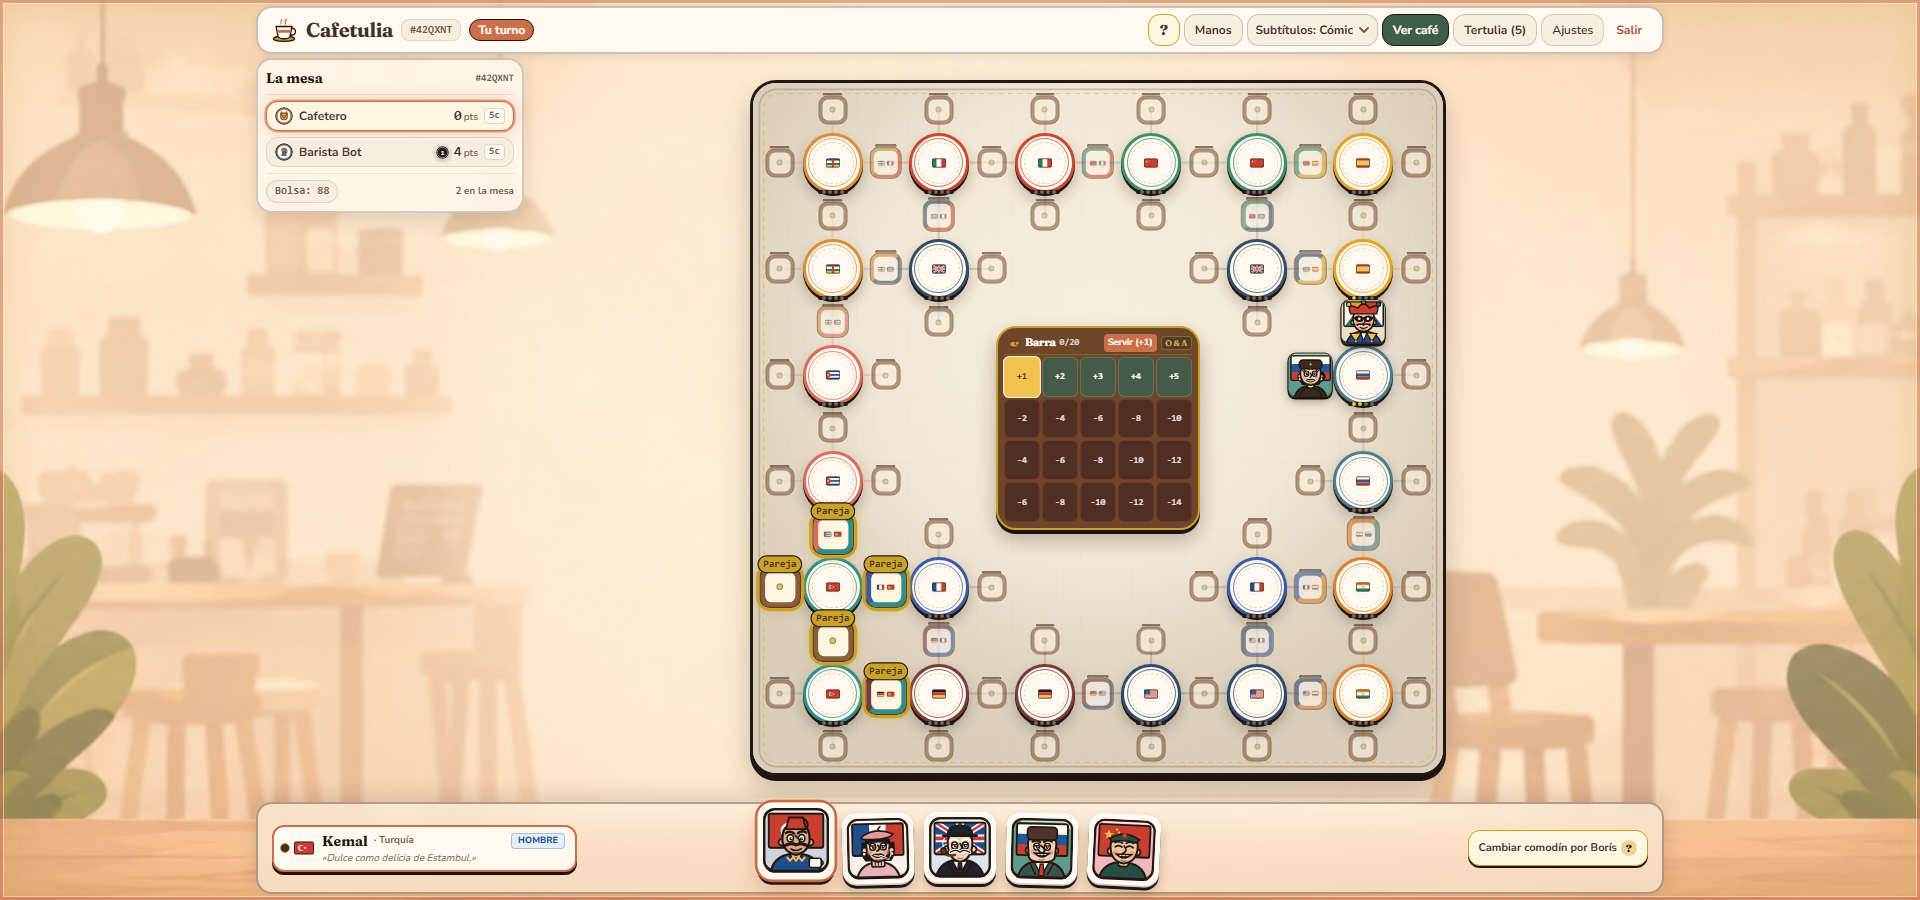
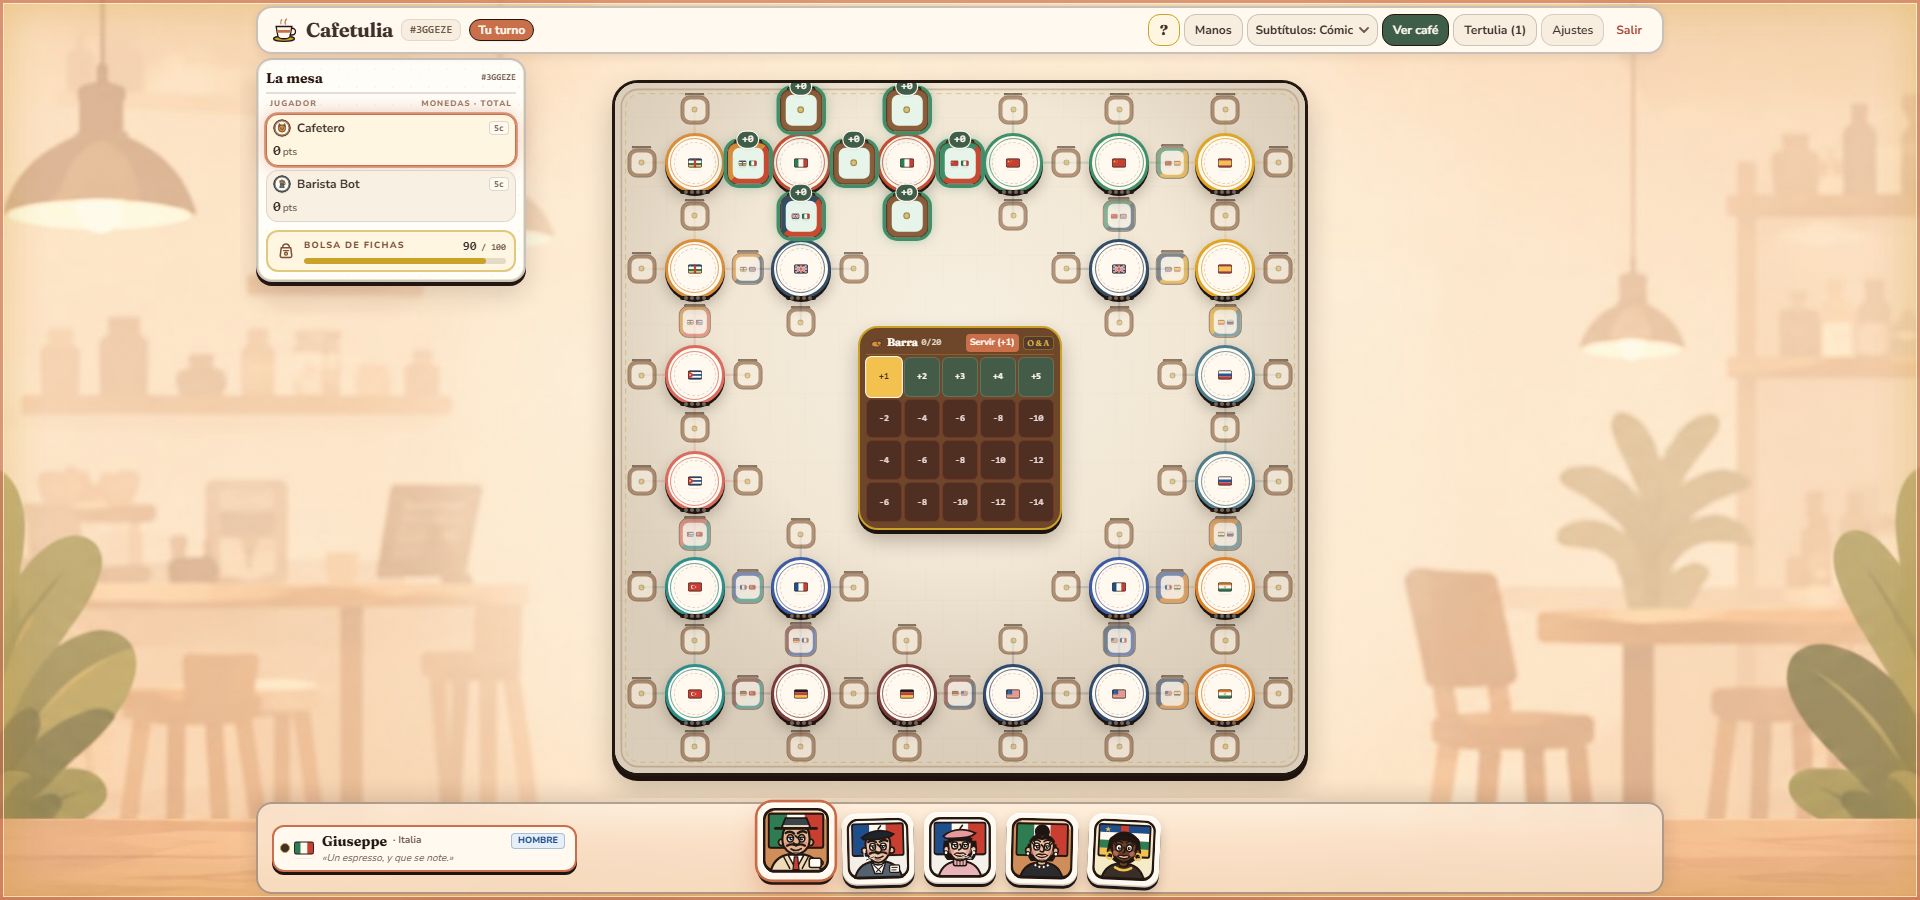
feat(game): tabla de puntuaciones con monedas y bolsa, tablero centrado
- Tabla 2x2 en movil con los 4 jugadores a la vez, sin slider; lista vertical flotante en PC.\n- Desglose visible de monedas 10/5/1 y total por jugador.\n- Bolsa de fichas destacada con contador X/100 y barra de progreso.\n- El tablero recupera el centro exacto del ancho completo en PC.\n- E2E: centro del tablero en 1920 y tabla movil sobre el tablero.

diff --git a/apps/web/src/components/Screens.tsx b/apps/web/src/components/Screens.tsx
@@ -50,6 +50,27 @@ export type ArcadeCalloutEvent = {
 const JOKER_SWAP_EXPLANATION =
   'Entregas una ficha natural que podría ocupar esa silla y recuperas el comodín. No puntúas y no robas. Úsalo solo si te conviene.';
 
+function BagIcon({ className }: { className?: string }): React.ReactElement {
+  return (
+    <svg viewBox="0 0 24 24" fill="none" aria-hidden="true" className={className}>
+      <path
+        d="M8 7.5c0-2.2 1.8-4 4-4s4 1.8 4 4"
+        stroke="currentColor"
+        strokeWidth="1.8"
+        strokeLinecap="round"
+      />
+      <path
+        d="M6.3 8h11.4l1.2 9.6a2 2 0 0 1-2 2.2H7.1a2 2 0 0 1-2-2.2L6.3 8Z"
+        stroke="currentColor"
+        strokeWidth="1.8"
+        strokeLinejoin="round"
+      />
+      <path d="M9 11.5h6" stroke="currentColor" strokeWidth="1.6" strokeLinecap="round" />
+      <circle cx="12" cy="15.2" r="1.7" stroke="currentColor" strokeWidth="1.6" />
+    </svg>
+  );
+}
+
 /**
  * Keyboard & ARIA accessible Avatar Dropdown / Bottom Sheet (P0.2 & P0.4)
  * Uses global activeOverlay === 'avatar' and portal AnchoredPopover.
@@ -3153,18 +3174,22 @@ export function PlayingScreen(): React.ReactElement {
         </div>
       </AnchoredPopover>
 
-      {/* CONTENT: score top on mobile / left column on desktop, board on the right */}
-      <div className="flex-1 min-h-0 w-full flex flex-col items-center justify-center gap-1.5 sm:gap-2 pt-5 lg:pt-0 lg:flex-row lg:items-start">
+      {/* CONTENT: ledger on top (mobile) / floating left (desktop), board centered */}
+      <div className="relative flex-1 min-h-0 w-full flex flex-col items-center justify-center gap-1.5 sm:gap-2 pt-3 lg:pt-0 lg:flex-row lg:items-start">
         <aside
           data-testid="compact-scoreboard"
-          className="shrink-0 w-full lg:w-[248px] xl:w-[268px] rounded-2xl border-2 border-[#231712]/20 bg-[#FFF9F0]/82 backdrop-blur-md p-1.5 sm:p-2 shadow-[0_6px_20px_rgba(35,23,18,0.12)]"
+          className="cafe-paper-sheet shrink-0 w-full rounded-2xl border-2 border-[#231712]/25 p-2 lg:w-[248px] xl:absolute xl:left-0 xl:top-0 xl:z-20 xl:w-[270px]"
         >
-          <div className="hidden lg:flex items-center justify-between gap-2 pb-1.5 mb-1.5 border-b border-[#3E2F2A]/10">
+          <div className="flex items-center justify-between gap-2 pb-1 mb-1 border-b-2 border-[#3E2F2A]/15">
             <span className="font-serif font-bold text-sm text-[#2B1710]">La mesa</span>
-            <span className="text-[10px] font-mono font-bold text-[#6F5A4E]">#{snapshot.code}</span>
+            <span className="text-[9px] font-mono font-bold text-[#6F5A4E]">#{snapshot.code}</span>
+          </div>
+          <div className="hidden lg:grid grid-cols-[1fr_auto] gap-2 px-1 pb-1 text-[8px] font-extrabold uppercase tracking-[0.14em] text-[#7B5236]/80">
+            <span>Jugador</span>
+            <span>Monedas · total</span>
           </div>
 
-          <div className="flex lg:flex-col items-stretch gap-1 sm:gap-1.5 overflow-x-auto lg:overflow-visible pb-0.5 lg:pb-0">
+          <div className="grid grid-cols-2 gap-1.5 lg:flex lg:flex-col lg:gap-1">
             {gameState.players.map((p) => {
               const pHandCount = (gameState.hands[p.id] ?? []).length;
               const isTurn = gameState.turn === p.id;
@@ -3173,52 +3198,62 @@ export function PlayingScreen(): React.ReactElement {
                 <div
                   key={p.id}
                   data-testid={`scoreboard-player-${p.id}`}
-                  className={`cafe-score-card flex items-center gap-1 sm:gap-1.5 px-1.5 sm:px-2 py-1 rounded-xl border text-xs transition-colors duration-200 whitespace-nowrap shrink-0 lg:w-full ${
+                  className={`cafe-score-card flex flex-col gap-1 rounded-xl border px-1.5 py-1 text-xs transition-colors duration-200 ${
                     isTurn
-                      ? `${reducedMotion ? 'cafe-score-active-static' : 'cafe-score-active'} bg-[#FEF6E0] border-[#C96F4A] font-bold`
-                      : 'bg-[#F7EEDF] border-[#231712]/12'
+                      ? `${reducedMotion ? 'cafe-score-active-static' : 'cafe-score-active'} bg-[#FEF6E0] border-[#C96F4A]`
+                      : 'bg-[#F7EEDF]/85 border-[#231712]/12'
                   }`}
                 >
-                  <PlayerAvatar avatarId={pAvatar} size={18} />
-                  <span className="font-bold text-[#3E2F2A] truncate max-w-[58px] sm:max-w-[96px] lg:max-w-none lg:flex-1">
-                    {p.nickname}
-                  </span>
-                  <CoinTray
-                    score={p.score}
-                    playerId={p.id}
-                    compact
-                    summaryOnly
-                    reducedMotion={reducedMotion}
-                  />
-                  <span
-                    className="text-[10px] font-mono font-semibold text-[#6F5A4E] bg-[#FFF9F0] px-1 py-0.2 rounded border border-[#231712]/15 tabular-nums"
-                    title={`${pHandCount} fichas en mano`}
-                  >
-                    {pHandCount}c
-                  </span>
+                  <div className="flex items-center gap-1.5 min-w-0">
+                    <PlayerAvatar avatarId={pAvatar} size={18} />
+                    <span className="font-bold text-[#3E2F2A] truncate flex-1">{p.nickname}</span>
+                    <span
+                      className="text-[9px] font-mono font-semibold text-[#6F5A4E] bg-[#FFF9F0] px-1 py-0.2 rounded border border-[#231712]/15 tabular-nums"
+                      title={`${pHandCount} fichas en mano`}
+                    >
+                      {pHandCount}c
+                    </span>
+                  </div>
+                  <div className="flex flex-wrap items-center gap-1 min-w-0">
+                    <CoinTray
+                      score={p.score}
+                      playerId={p.id}
+                      compact
+                      reducedMotion={reducedMotion}
+                    />
+                  </div>
                 </div>
               );
             })}
-            <span
-              data-testid="bag-counter-pill-mobile"
-              className="lg:hidden self-center text-[10px] font-mono font-bold text-[#6F5A4E] bg-[#F7EEDF] px-1.5 py-0.5 rounded-lg border border-[#231712]/12 tabular-nums whitespace-nowrap shrink-0"
-              title="Fichas restantes en la bolsa"
-            >
-              Bolsa: {gameState.bag.length}
-            </span>
           </div>
 
-          <div className="hidden lg:flex items-center justify-between gap-2 pt-1.5 mt-1.5 border-t border-[#3E2F2A]/10">
-            <span
-              data-testid="bag-counter-pill"
-              className="text-[11px] font-mono font-bold text-[#6F5A4E] bg-[#F7EEDF] px-2 py-0.5 rounded-xl border border-[#231712]/12 tabular-nums whitespace-nowrap"
-              title="Fichas restantes en la bolsa"
-            >
-              Bolsa: {gameState.bag.length}
-            </span>
-            <span className="text-[10px] font-bold text-[#6F5A4E]">
-              {gameState.players.length} en la mesa
-            </span>
+          <div
+            data-testid="bag-counter-pill"
+            className="mt-2 rounded-xl border-2 border-[#C9A227]/55 bg-[#FEF6E0] px-2 py-1.5"
+            title={`Fichas restantes en la bolsa: ${gameState.bag.length} de 100`}
+          >
+            <div className="flex items-center gap-2">
+              <BagIcon className="h-5 w-5 shrink-0 text-[#7B5236]" />
+              <div className="min-w-0 flex-1">
+                <div className="flex items-center justify-between gap-2">
+                  <span className="text-[9px] font-extrabold uppercase tracking-[0.14em] text-[#7B5236]">
+                    Bolsa de fichas
+                  </span>
+                  <span className="font-mono text-xs font-extrabold text-[#3E2F2A] tabular-nums">
+                    {gameState.bag.length}
+                    <span className="text-[9px] font-bold text-[#6F5A4E]"> / 100</span>
+                  </span>
+                </div>
+                <div className="mt-1 h-1.5 overflow-hidden rounded-full bg-[#231712]/12">
+                  <div
+                    className="h-full rounded-full bg-[#C9A227] transition-[width] duration-500"
+                    style={{
+                      width: `${Math.min(100, Math.max(0, (gameState.bag.length / 100) * 100))}%`,
+                    }}
+                  />
+                </div>
+              </div>
+            </div>
           </div>
         </aside>
 

diff --git a/apps/web/src/components/IllustratedBoard.tsx b/apps/web/src/components/IllustratedBoard.tsx
@@ -138,7 +138,7 @@ export function IllustratedBoard({
       data-testid="papercraft-board"
     >
       {/* Mobile Zoom / Pan Quick Toggle (outside the board so it never covers a chair) */}
-      <div className="sm:hidden w-[min(96vw,calc(100dvh-252px))] flex justify-end pb-1 px-0.5">
+      <div className="sm:hidden w-[min(96vw,calc(100dvh-410px))] flex justify-end pb-1 px-0.5">
         <div className="flex items-center gap-1 bg-[#FFF9F0]/92 backdrop-blur-xs px-1.5 py-0.5 rounded-xl border border-[#231712]/30 shadow-xs">
           <button
             type="button"
@@ -204,7 +204,7 @@ export function IllustratedBoard({
           const y = Math.round(((e.clientY - rect.top) / rect.height) * 100);
           setPointerPct({ x: Math.max(10, Math.min(90, x)), y: Math.max(10, Math.min(90, y)) });
         }}
-        className={`relative aspect-square w-[min(96vw,calc(100dvh-252px))] h-[min(96vw,calc(100dvh-252px))] sm:w-[min(93vw,calc(100dvh-204px))] sm:h-[min(93vw,calc(100dvh-204px))] rounded-[20px] sm:rounded-[26px] border-3 overflow-hidden shrink-0 transition-colors ${
+        className={`relative aspect-square w-[min(96vw,calc(100dvh-410px))] h-[min(96vw,calc(100dvh-410px))] sm:w-[min(93vw,calc(100dvh-204px))] sm:h-[min(93vw,calc(100dvh-204px))] rounded-[20px] sm:rounded-[26px] border-3 overflow-hidden shrink-0 transition-colors ${
           nightMode
             ? 'bg-[#282D3A] border-[#C9A227]/65 text-[#FFF9F0] shadow-[0_6px_0_#141720,0_16px_32px_rgba(0,0,0,0.45)]'
             : 'bg-[#EFE3CE] border-[#231712] text-[#3E2F2A] shadow-[0_5px_0_#1E130E,0_14px_28px_rgba(35,23,18,0.22),inset_0_2px_0_rgba(255,253,248,0.85)]'

diff --git a/e2e/tests/smoke.spec.ts b/e2e/tests/smoke.spec.ts
@@ -287,6 +287,14 @@ test.describe('Cafetulia E2E v11 (menú de reservas 3D, tres mundos, lobby prepa
       () => document.documentElement.scrollHeight <= window.innerHeight + 1,
     );
     expect(widePlayCheck).toBe(true);
+    const boardCenterCheck = await page.evaluate(() => {
+      const board = document.querySelector('[aria-label^="Tablero ilustrado"]')?.getBoundingClientRect();
+      return {
+        boardCenter: board ? board.left + board.width / 2 : 0,
+        viewportCenter: window.innerWidth / 2,
+      };
+    });
+    expect(Math.abs(boardCenterCheck.boardCenter - boardCenterCheck.viewportCenter)).toBeLessThanOrEqual(2);
     await page.screenshot({ path: path.join(REF_DIR, 'ui-v11-partida-1920.png') });
 
     // 6. Verificar Partida en 390x844 sin scroll ni solape entre tablero y dock y captura ui-v11-partida-movil.png

diff --git a/apps/web/src/components/CoinTray.tsx b/apps/web/src/components/CoinTray.tsx
@@ -166,7 +166,7 @@ export function CoinTray({
     <div
       data-player-tray={playerId}
       data-testid={`coin-tray-${playerId}`}
-      className="inline-flex items-center gap-1 shrink-0 whitespace-nowrap"
+      className="inline-flex flex-wrap items-center gap-1 shrink-0"
       title={tooltipText}
     >
       {summaryOnly ? (
@@ -180,7 +180,7 @@ export function CoinTray({
       ) : (
         breakdown.stacks.length > 0 && (
           <div
-            className="inline-flex items-center gap-1"
+            className="inline-flex flex-wrap items-center gap-1"
             data-testid={`coin-stacks-${playerId}`}
           >
             {breakdown.stacks.map((stack) => (

diff --git a/docs/DECISIONES.md b/docs/DECISIONES.md
@@ -114,7 +114,7 @@ Estados posibles: **Cerrada**, **Pendiente**, **Aplazada**.
 | D-106 | 2026-11-25 | 24 ingredientes por mundo, con capa de fondo, y falda kraft reducida al 23% del vaso | Cerrada | Más densidad en el aire y una falda que deja respirar la etiqueta; la capa de fondo usa escalas menores y z negativo para dar profundidad |
 | D-107 | 2026-11-25 | El gesto de rueda que abre el menú no cambia de mundo | Cerrada | La rueda solo cambia de mundo con el menú abierto (`progress ≥ 0.985`) y tras 900 ms de gracia; así un solo notch solo revela la carta. El título del mundo usa crossfade solapado (`popLayout`) para no dejar un hueco |
 | D-108 | 2026-11-25 | La rueda hacia arriba en el menú vuelve a la portada y no cicla mundos | Cerrada | El listener vive en el contenedor de scroll, así que funciona sobre la carta, la cabecera, el logo, el avatar y los overlays. Un tick arriba cierra los overlays abiertos y vuelve al póster; el vaso solo usa la rueda hacia abajo para ciclar mundos |
-| D-109 | 2026-11-25 | La partida separa el top de puntuaciones de la cabecera: arriba en móvil y a la izquierda en PC | Cerrada | La cabecera queda en una fila; el top incluye avatar, nombre, monedas, mano y bolsa. El jugador con el turno tiene glow animado (estático con `reducedMotion`) y el tablero ocupa el resto del espacio |
+| D-109 | 2026-11-25 | La partida separa el top de puntuaciones de la cabecera: tabla 2×2 arriba en móvil y lista flotante a la izquierda en PC | Cerrada | La cabecera queda en una fila; la tabla muestra los 4 jugadores a la vez, avatar, nombre, fichas en mano, desglose de monedas 10/5/1 + total y glow del turno. En PC el panel flota en `xl` y el tablero conserva el centro exacto del ancho completo |
 | D-110 | 2026-11-25 | El vuelo de monedas aterriza en el `CoinTray` del jugador dentro del nuevo top | Cerrada | Se mantiene `data-player-tray`; en móvil va al top superior y en PC a la tarjeta izquierda del jugador. No hay trays duplicados con el mismo `playerId` |
 | D-111 | 2026-11-25 | Los popovers se anclan siempre a su botón, también en móvil, con animación suave | Cerrada | Se elimina la hoja inferior móvil; entrada/salida de 0.24 s con escala, desplazamiento y `transform-origin` en el ancla. Aplica a partida, lobby y portada |
 | D-112 | 2026-11-25 | La partida y el lobby usan un fondo de bar cozy aportado por el usuario | Cerrada | `public/backgrounds/cafe-bar.jpg` (JPEG 67 KB) con overlays cálidos; en móvil se recorta a lámparas/estanterías y se desvanece. Pendiente confirmar licencia antes de publicar |

diff --git a/docs/SESIONES.md b/docs/SESIONES.md
@@ -10,9 +10,10 @@
 **Objetivo:** aprovechar el espacio vacío de la partida en móvil y PC, mejorar la lectura de puntuaciones y del turno, suavizar todos los desplegables y dar ambiente de bar al fondo.
 
 **Hecho:**
-- La partida se reorganiza en una cabecera compacta de una fila y un **top de puntuaciones independiente**. En móvil va entre la cabecera y el tablero; en PC es una tarjeta compacta arriba a la izquierda y el tablero se centra en el resto. El fondo llena los laterales.
-- El top incluye tarjetas de jugador con avatar, nombre, monedas, fichas en mano y bolsa. El jugador con el turno tiene un **glow animado** (estático con `reducedMotion`).
-- El tablero móvil baja ~10 px y el top queda justo encima; el hueco superior se llena con el fondo de bar.
+- La partida se reorganiza en una cabecera compacta de una fila y una **tabla de la casa** independiente. En móvil es una rejilla 2×2 con los 4 jugadores visibles a la vez, sin slider; en PC es una lista vertical que flota arriba a la izquierda sobre el fondo. El tablero recupera el centro exacto del ancho completo.
+- Cada fila muestra avatar, nombre, fichas en mano y el **desglose de monedas 10/5/1 con su total**. El jugador con el turno tiene un **glow animado** (estático con `reducedMotion`).
+- La **bolsa de fichas** es un bloque destacado con icono, contador `X / 100` y barra de progreso.
+- El tablero móvil se adapta al nuevo top (`100dvh - 410px`) para que tabla y tablero quepan sin solaparse; en 390×844 mantiene 375 px y baja hasta ~291 px.
 - El **vuelo de monedas** sigue usando `data-player-tray`: en móvil aterriza en el top y en PC en la tarjeta izquierda del jugador. No hay dos trays con el mismo `playerId`.
 - Fondo de bar cozy aportado por el usuario en `public/backgrounds/cafe-bar.jpg` (67 KB, JPEG comprimido), con overlays cálidos. En móvil se recorta a la zona de lámparas/estanterías y se desvanece; también se usa en el lobby.
 - Los `AnchoredPopover` se anclan siempre a su botón, también en móvil; dejan de ser hojas inferiores. Entrada/salida de 0.24 s con escala, desplazamiento y origen en el ancla. Aplica a partida, lobby y portada.
